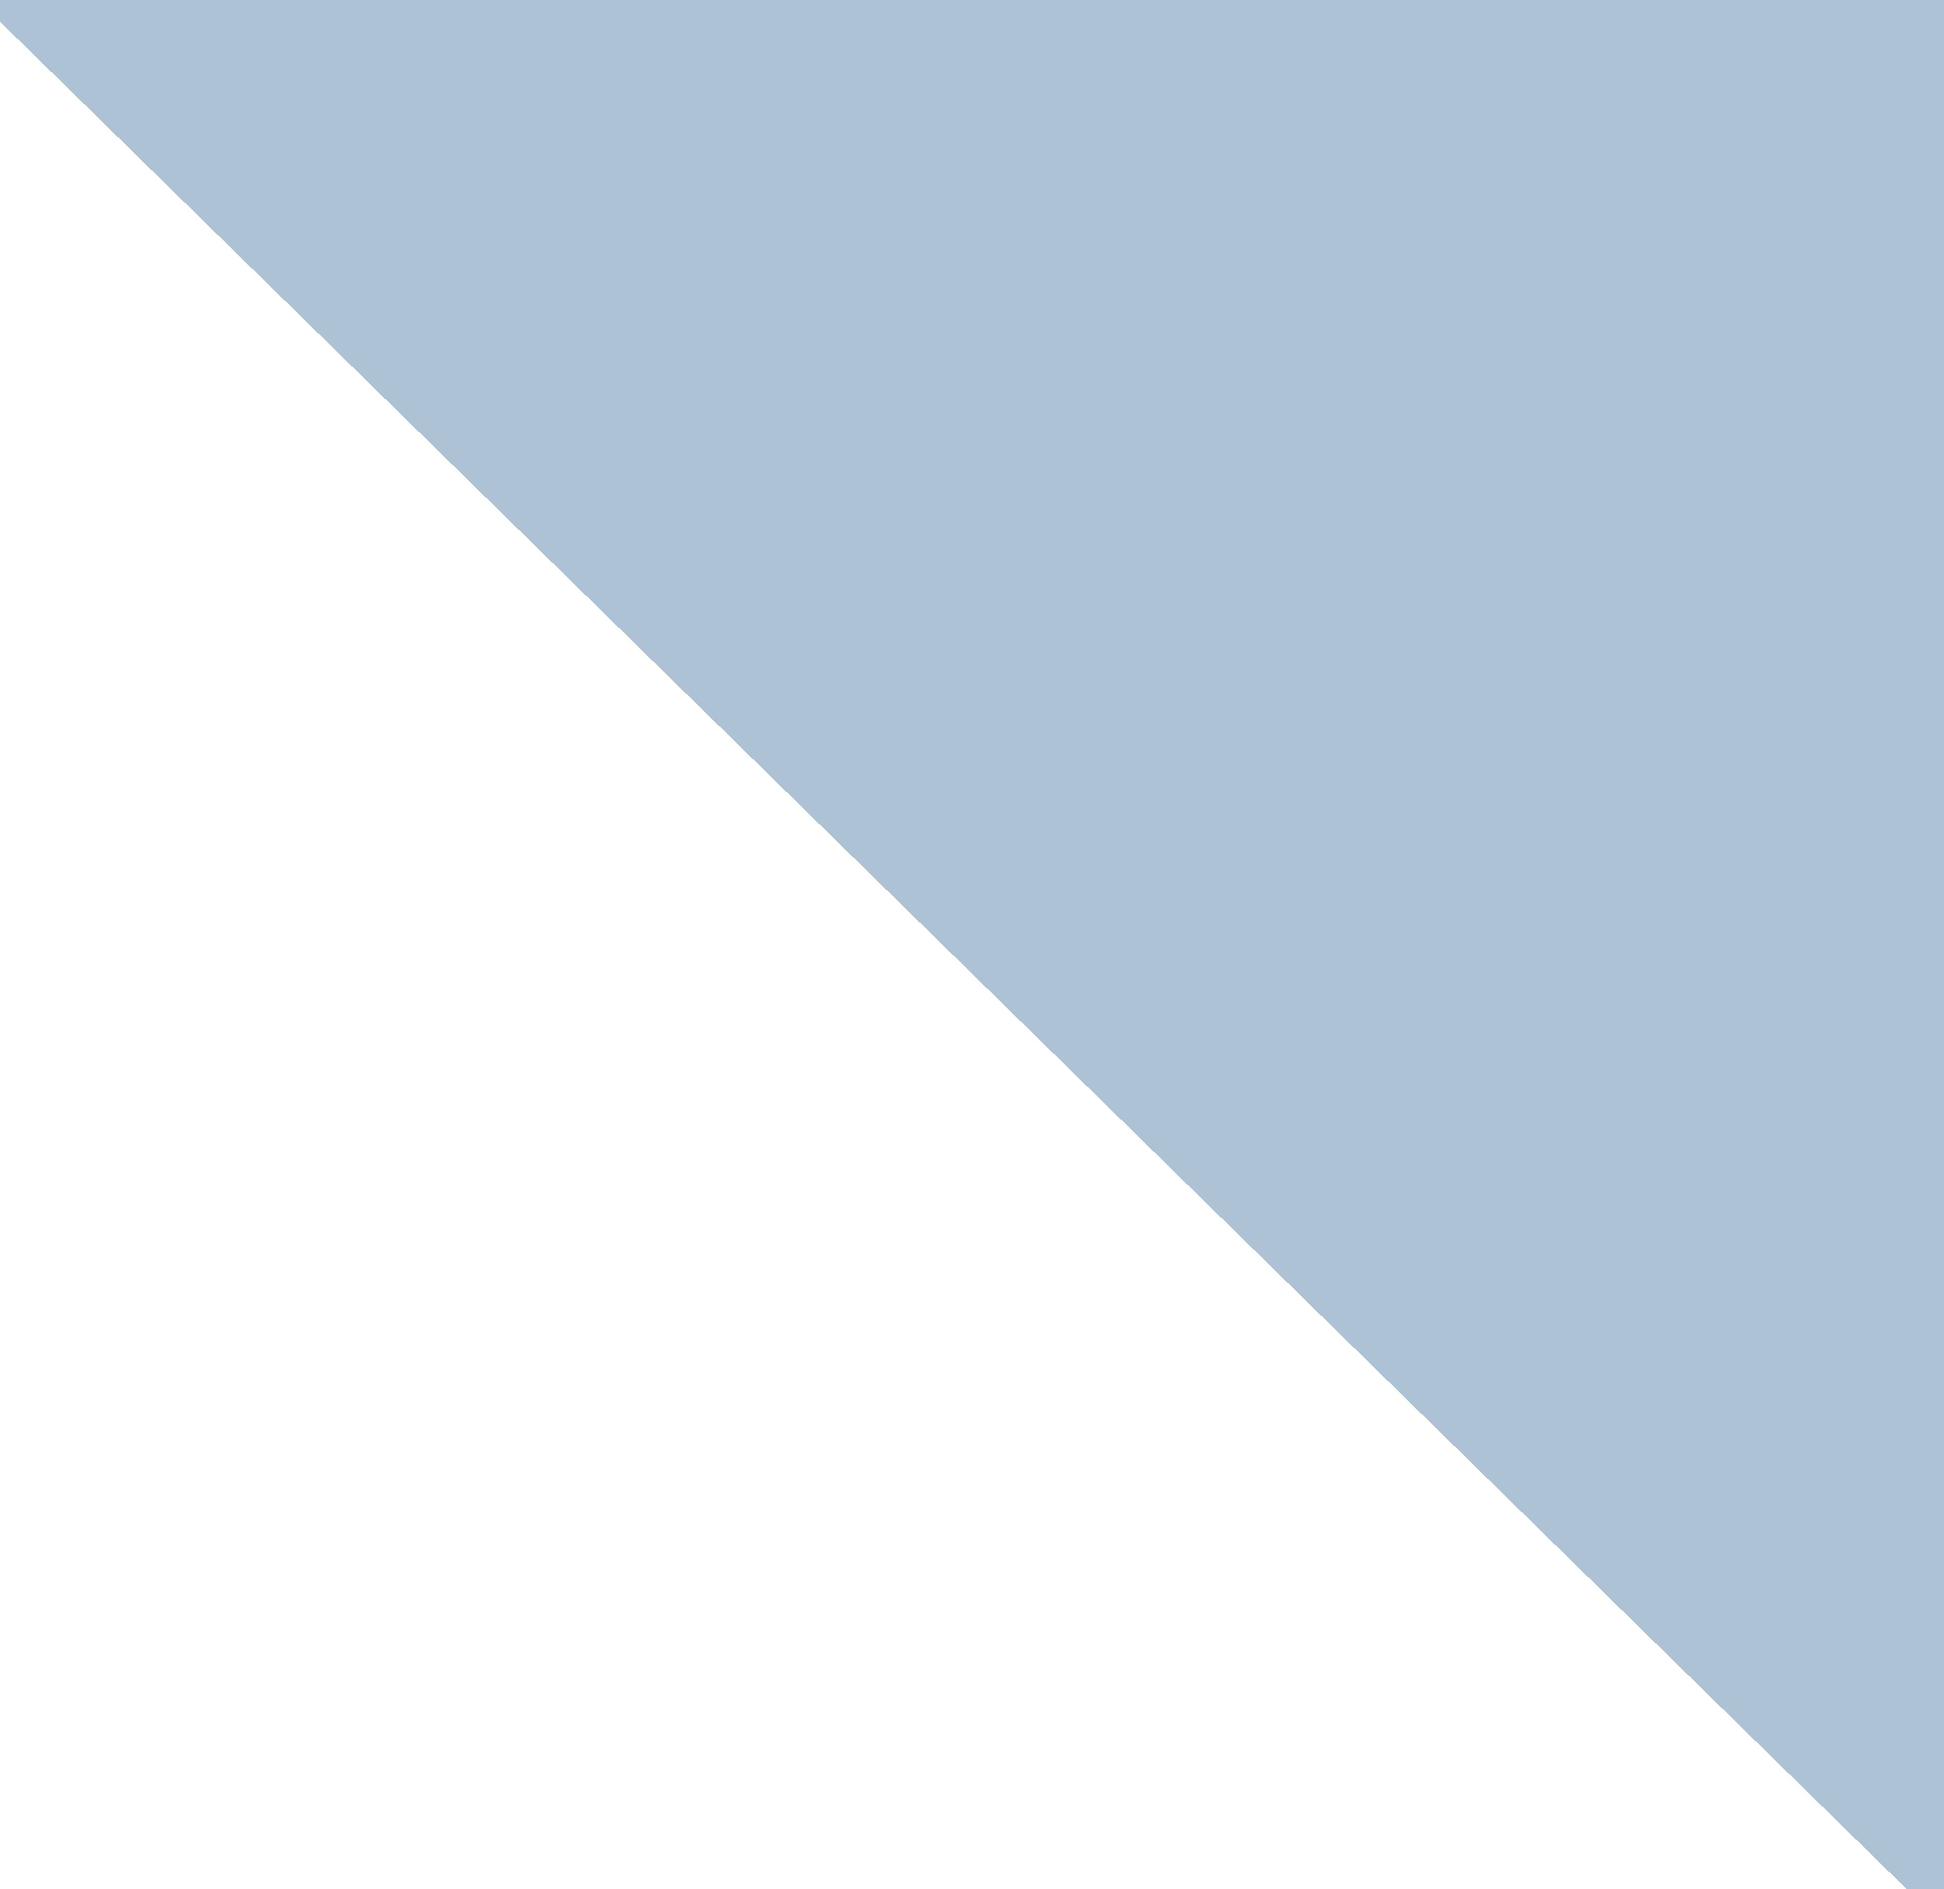
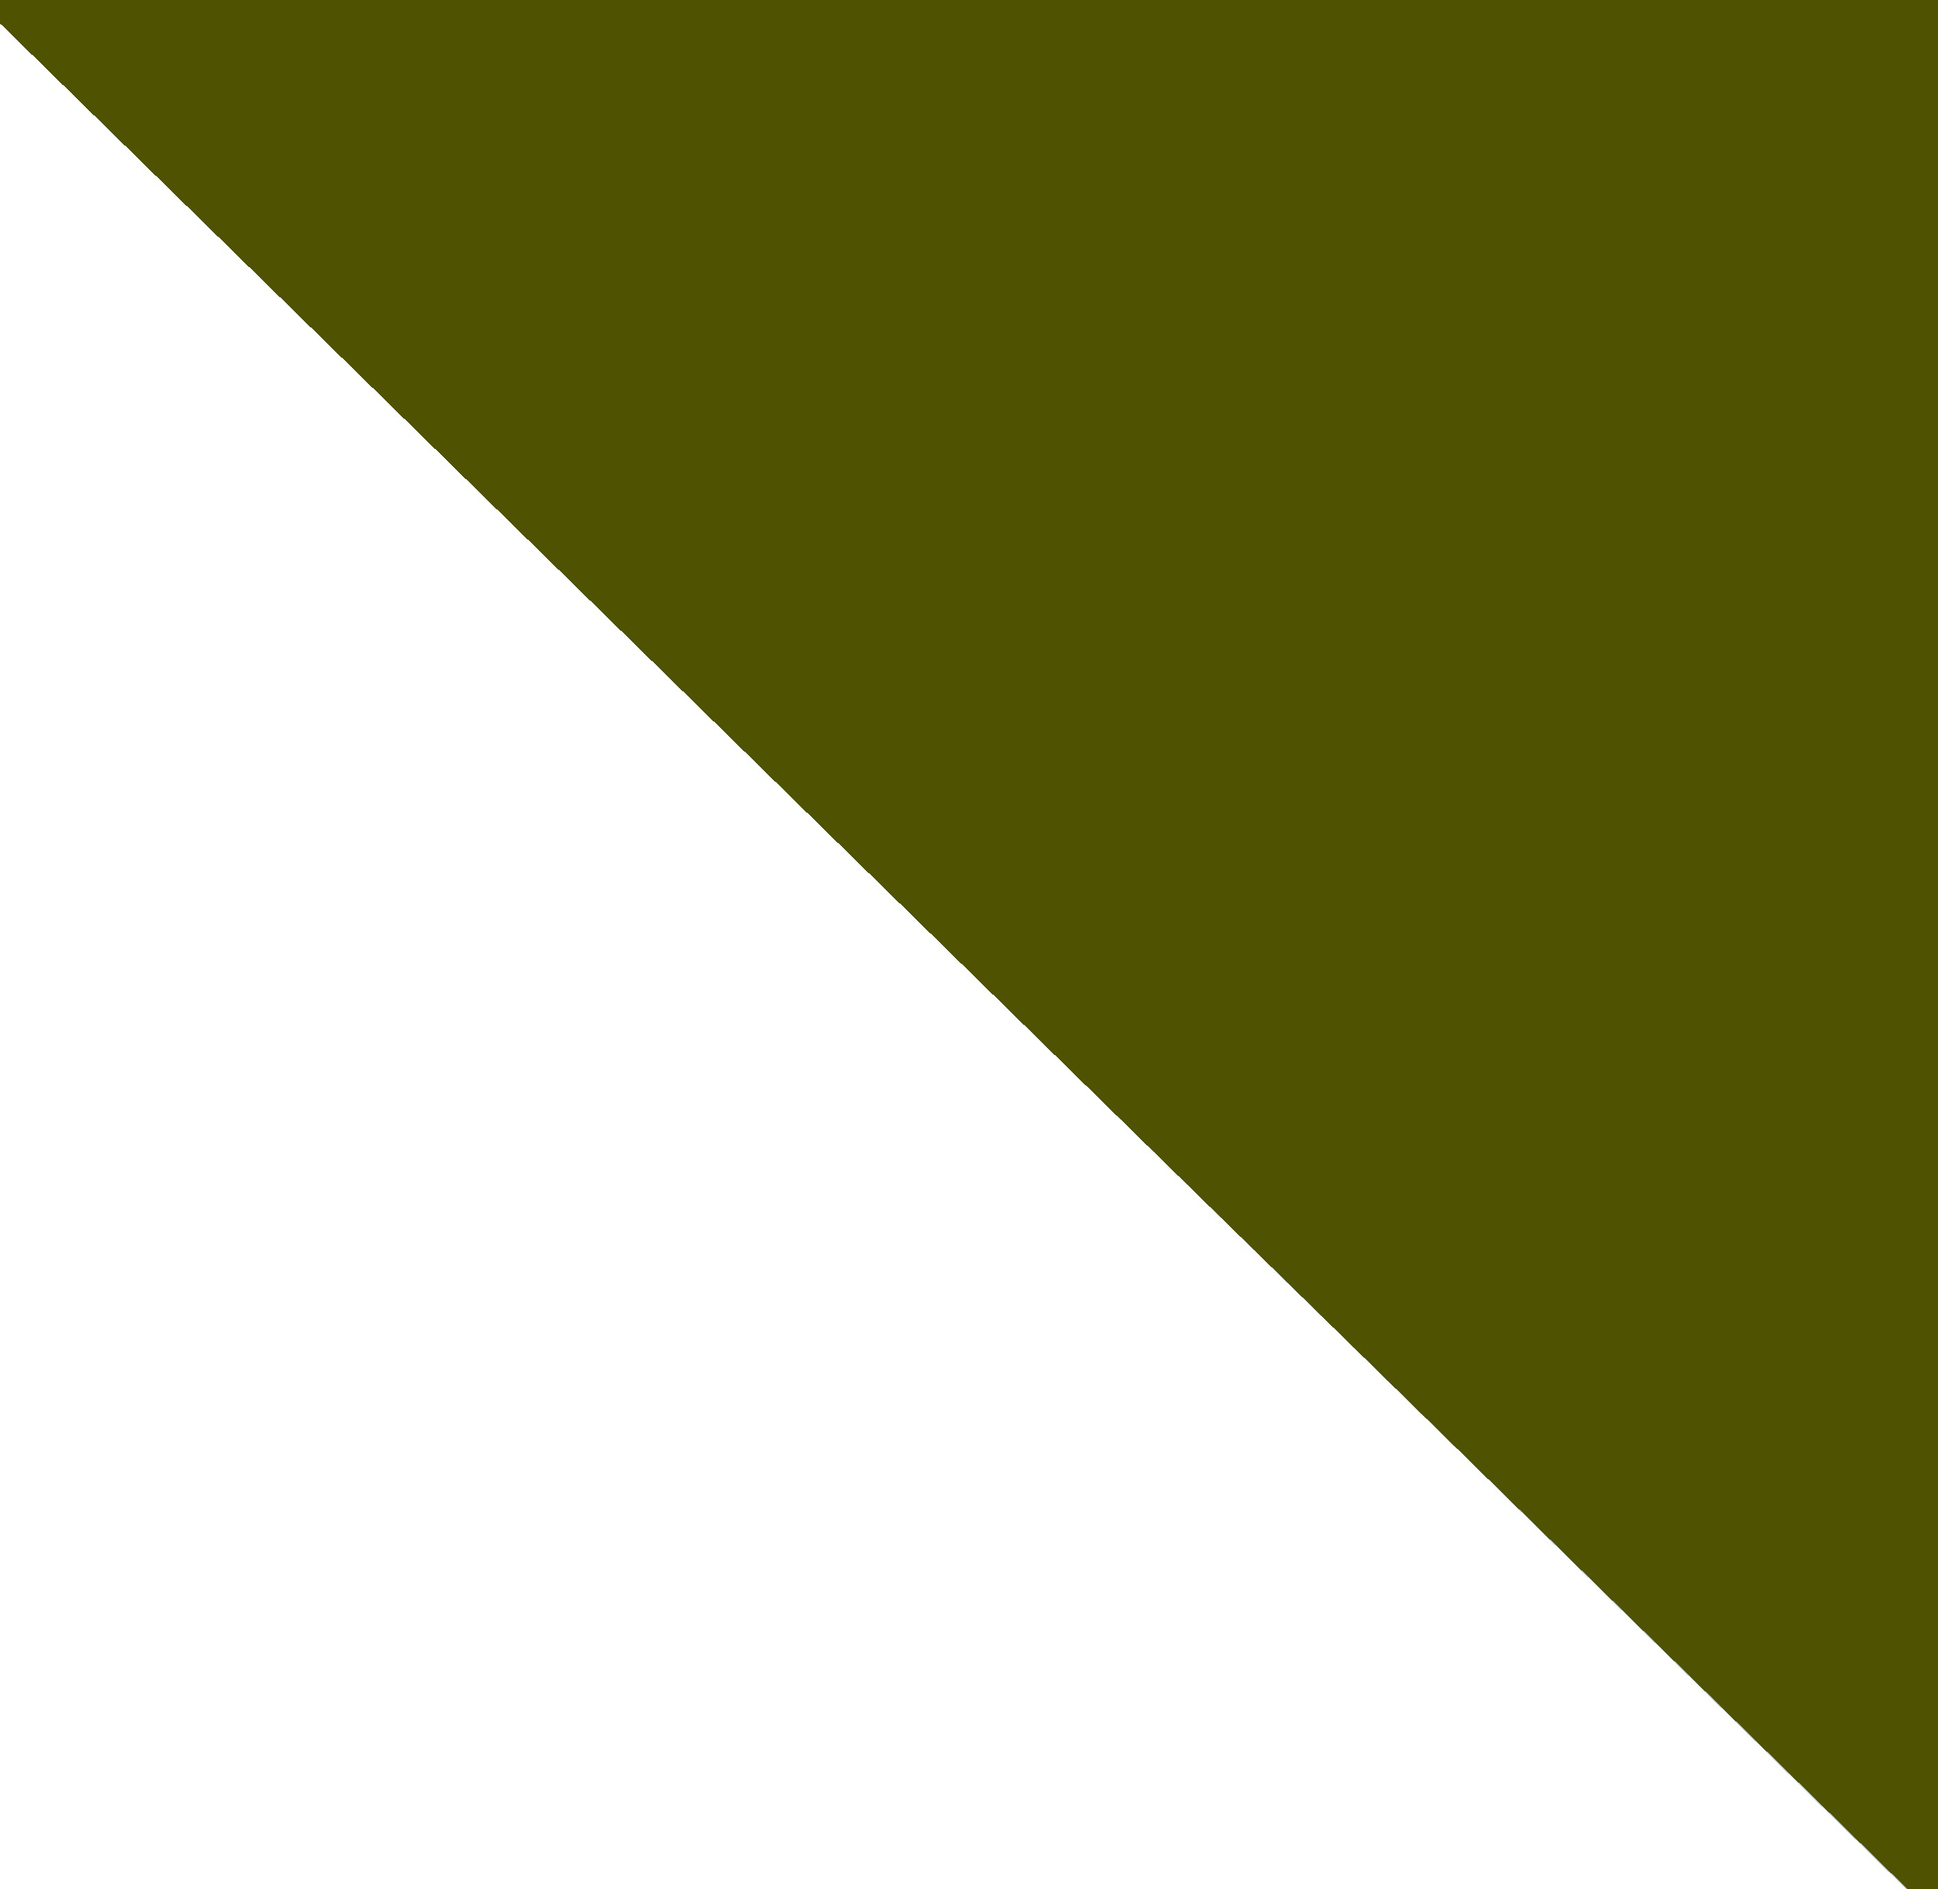
fix colors

diff --git a/components/auth/Screens/register/style.js b/components/auth/Screens/register/style.js
@@ -11,7 +11,7 @@ export default style = StyleSheet.create({
   title:{
     fontSize: 60,
     marginBottom: 30,
-    color:'#B42306',
+    color:'#4F5200',
     padding: 15,
   },
   inputView:{
@@ -34,11 +34,11 @@ export default style = StyleSheet.create({
     fontSize: 15
   },
   SignupBtn:{
-    backgroundColor:"#B42306",
+    backgroundColor:"#D6BA00",
     borderRadius:25,
     borderWidth: 1,
     borderStyle: 'solid',
-    borderColor:'#8A1B05',
+    borderColor:'#BFA600',
     height:50,
     width: Dimensions.get('window').width * 0.8,
     alignItems:"center",
@@ -56,7 +56,8 @@ export default style = StyleSheet.create({
     justifyContent: 'center',
     textAlign: 'center',
     fontSize: 12,
-    marginHorizontal: '10%'
+    marginHorizontal: '10%',
+    color: '#4F5200'
   },
   LoginText: {
     fontWeight: 'bold',

diff --git a/components/auth/Screens/settings/style.js b/components/auth/Screens/settings/style.js
@@ -11,7 +11,7 @@ export default styles = StyleSheet.create({
     },
     title:{
         fontSize: 40,
-        color:'black',
+        color:'#BFA600',
     },
     backgroundImg:{
         width: Dimensions.get('window').width,
@@ -41,11 +41,11 @@ export default styles = StyleSheet.create({
         justifyContent: 'space-between'
     },
     SubmitBtn:{
-        backgroundColor:"#B42306",
+        backgroundColor:"#D6BA00",
         borderRadius:25,
         borderWidth: 1,
         borderStyle: 'solid',
-        borderColor:'#8A1B05',
+        borderColor:'#BFA600',
         height:50,
         width: Dimensions.get('window').width * 0.8,
         alignItems:"center",

diff --git a/components/auth/Screens/forgotPassword/style.js b/components/auth/Screens/forgotPassword/style.js
@@ -9,7 +9,7 @@ export default style = StyleSheet.create({
     title:{
       fontSize: 60,
       marginBottom: 30,
-      color:'#B42306',
+      color:'#4F5200',
       padding: 15,
       textAlign: 'center'
     },
@@ -51,11 +51,11 @@ export default style = StyleSheet.create({
         color: 'white'
     },
     SignupBtn:{
-        backgroundColor:"#B42306",
+        backgroundColor:"#D6BA00",
         borderRadius:25,
         borderWidth: 1,
         borderStyle: 'solid',
-        borderColor:'#8A1B05',
+        borderColor:'#BFA600',
         height:50,
         width: Dimensions.get('window').width * 0.8,
         alignItems:"center",

diff --git a/components/auth/Screens/main/style.js b/components/auth/Screens/main/style.js
@@ -9,7 +9,7 @@ export default styles = StyleSheet.create({
     title:{
       fontSize: 40,
       marginBottom: 30,
-      color:'black',
+      color:'#BFA600',
       padding: 15,
       textAlign: 'center'
     },
@@ -43,10 +43,10 @@ export default styles = StyleSheet.create({
       fontSize: 15,
       fontStyle:'italic',
       textAlign:'center',
-      color:'#ADC2D4',
+      color:'#BFA600',
     },
     greenBox:{
-      backgroundColor:'#B42306',
+      backgroundColor:'#4F5200',
       height: 150,
       justifyContent:'center',
       alignItems:'center',

diff --git a/components/auth/Screens/login/style.js b/components/auth/Screens/login/style.js
@@ -66,11 +66,11 @@ export default StyleSheet.create({
     fontSize:15
   },
   loginBtn:{
-    backgroundColor:"#B42306",
+    backgroundColor:"#D6BA00",
     borderRadius:25,
     borderWidth: 1,
     borderStyle: 'solid',
-    borderColor:'#8A1B05',
+    borderColor:'#BFA600',
     height:50,
     width: Dimensions.get('window').width * 0.8,
     alignItems:"center",

diff --git a/components/auth/Screens/login/Login.js b/components/auth/Screens/login/Login.js
@@ -72,7 +72,7 @@ export class Login extends Component {
                   onPress={() => this.props.navigation.navigate("ForgotPassword")}
                   // titleStyle = {{color: '#039BE5', }}
                   type = 'clear'
-                  color={'#ADC2D4'}
+                  color={'#4F5200'}
                 />
             </View>
           </View>
